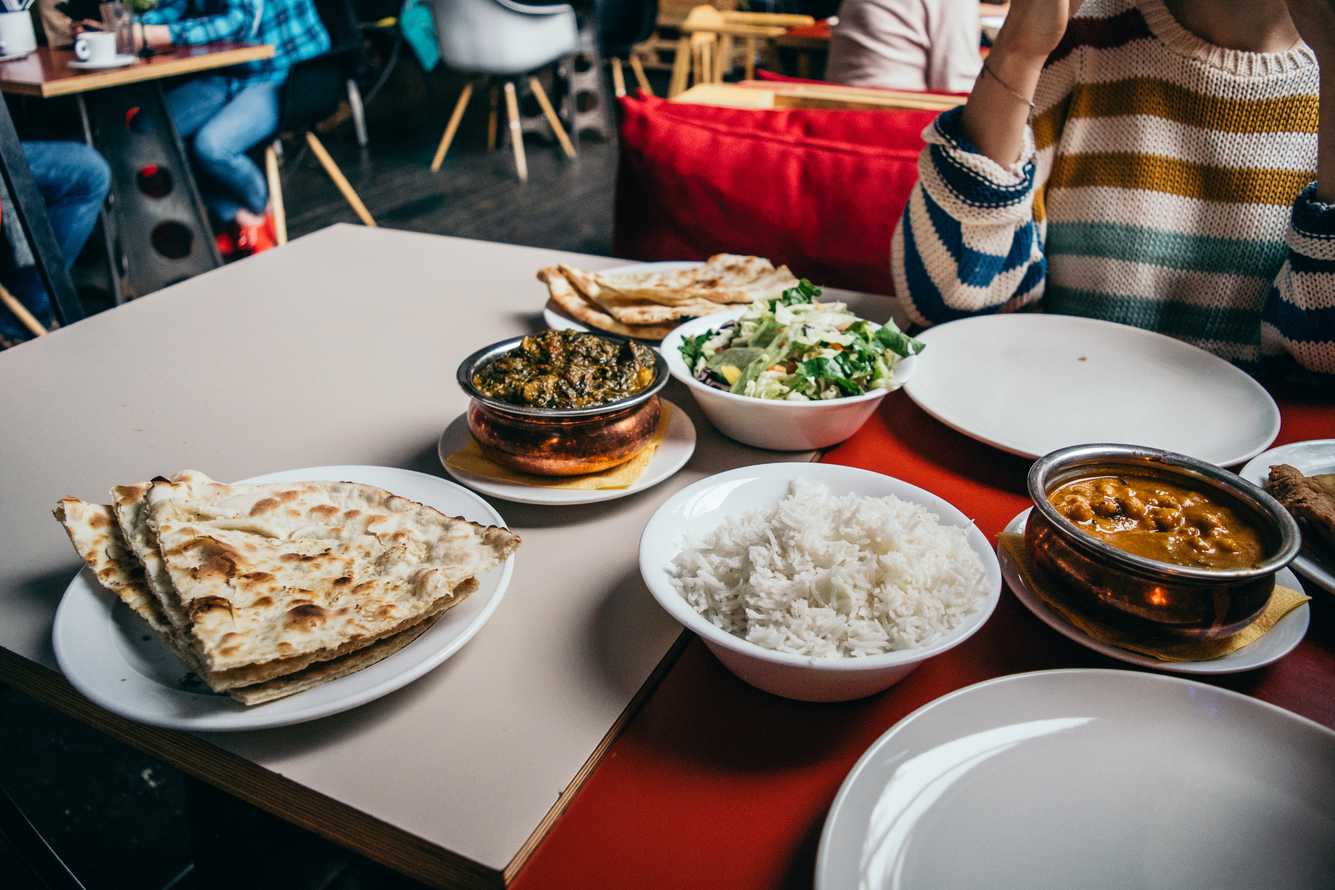
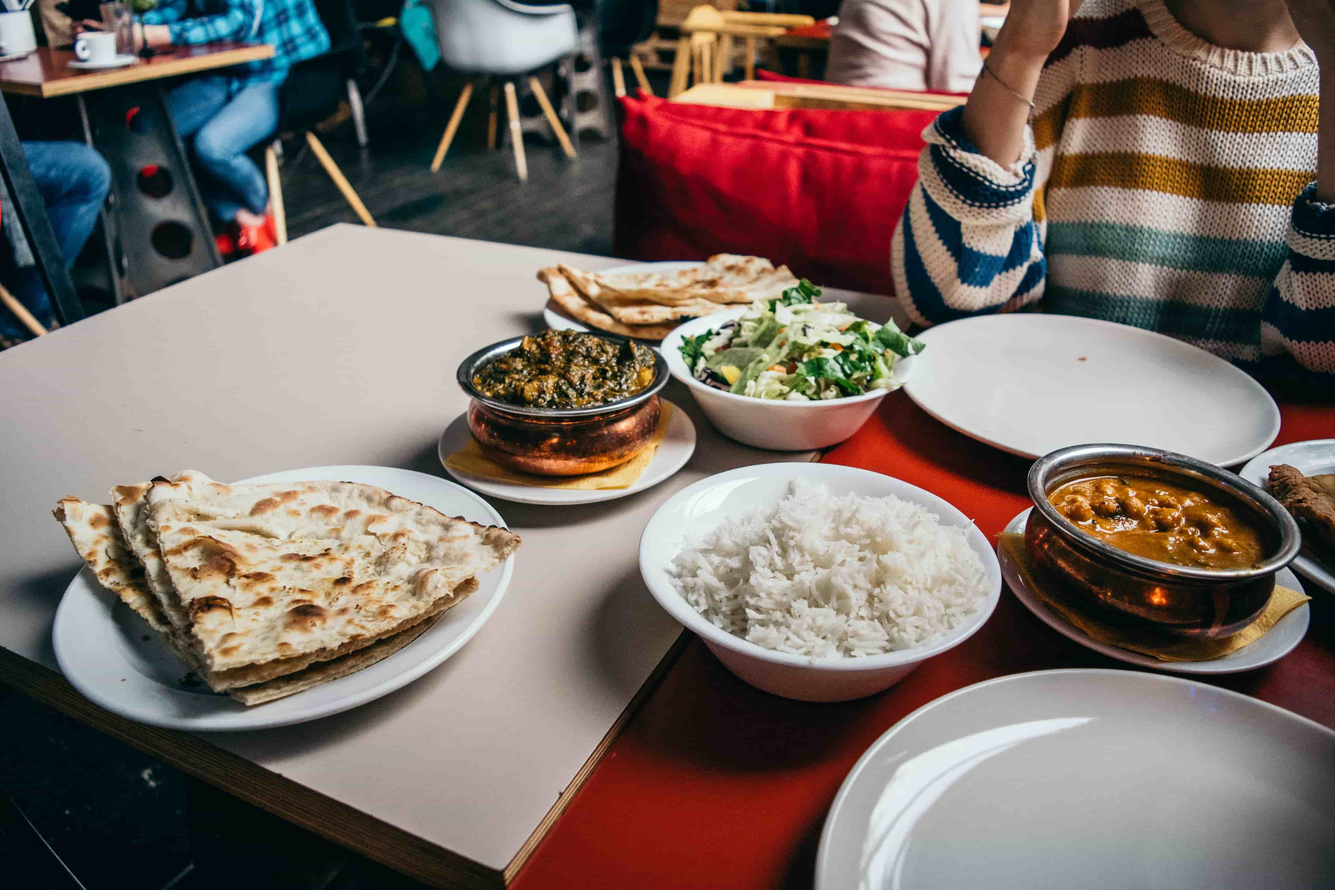
Final optimization(s) for the website (mainly images)

Changed region(s): [[0.8073, 0.5612, 0.9004, 0.6236]]

diff --git a/index.html b/index.html
@@ -26,6 +26,9 @@
     <!-- Google Fonts -->
     <link href="https://fonts.googleapis.com/css2?family=Lato:ital,wght@0,100;0,300;0,400;0,700;1,300&display=swap" rel="stylesheet">
 
+    <!-- Our title-bar icon -->
+    <link rel="icon" href="./assets/img/logo-white.png">
+
     <title>Omnifood</title>
 </head>
 <body>
